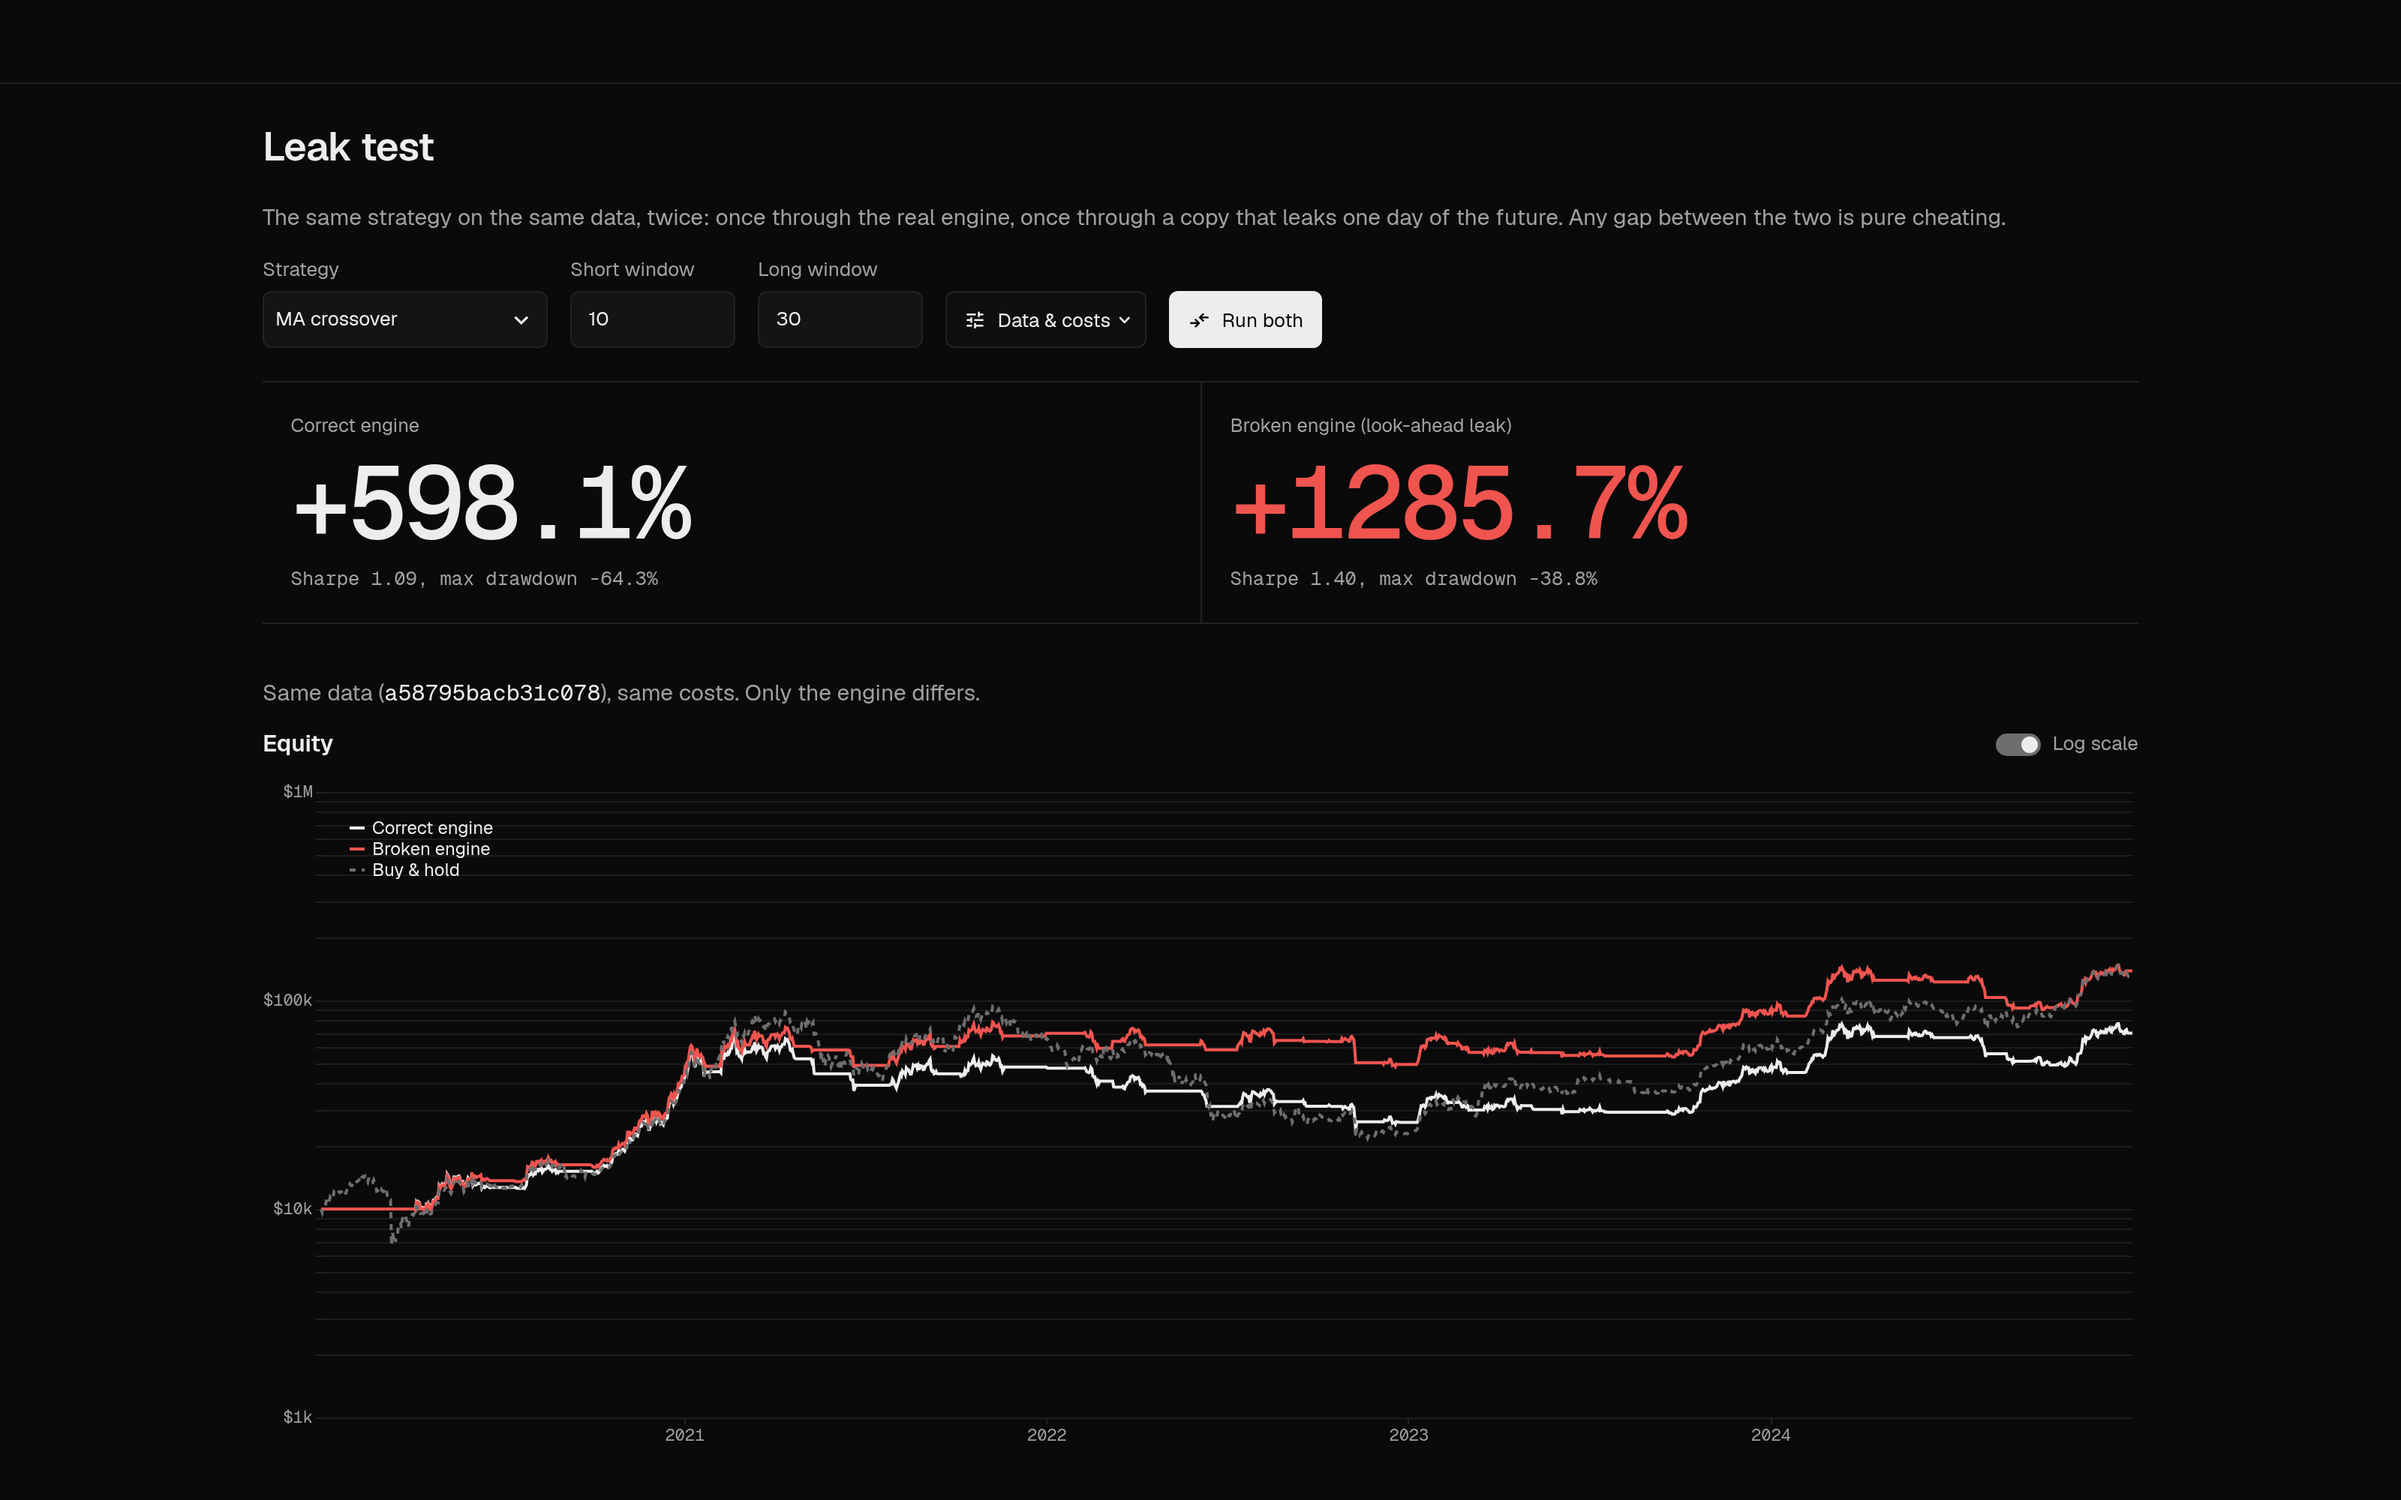
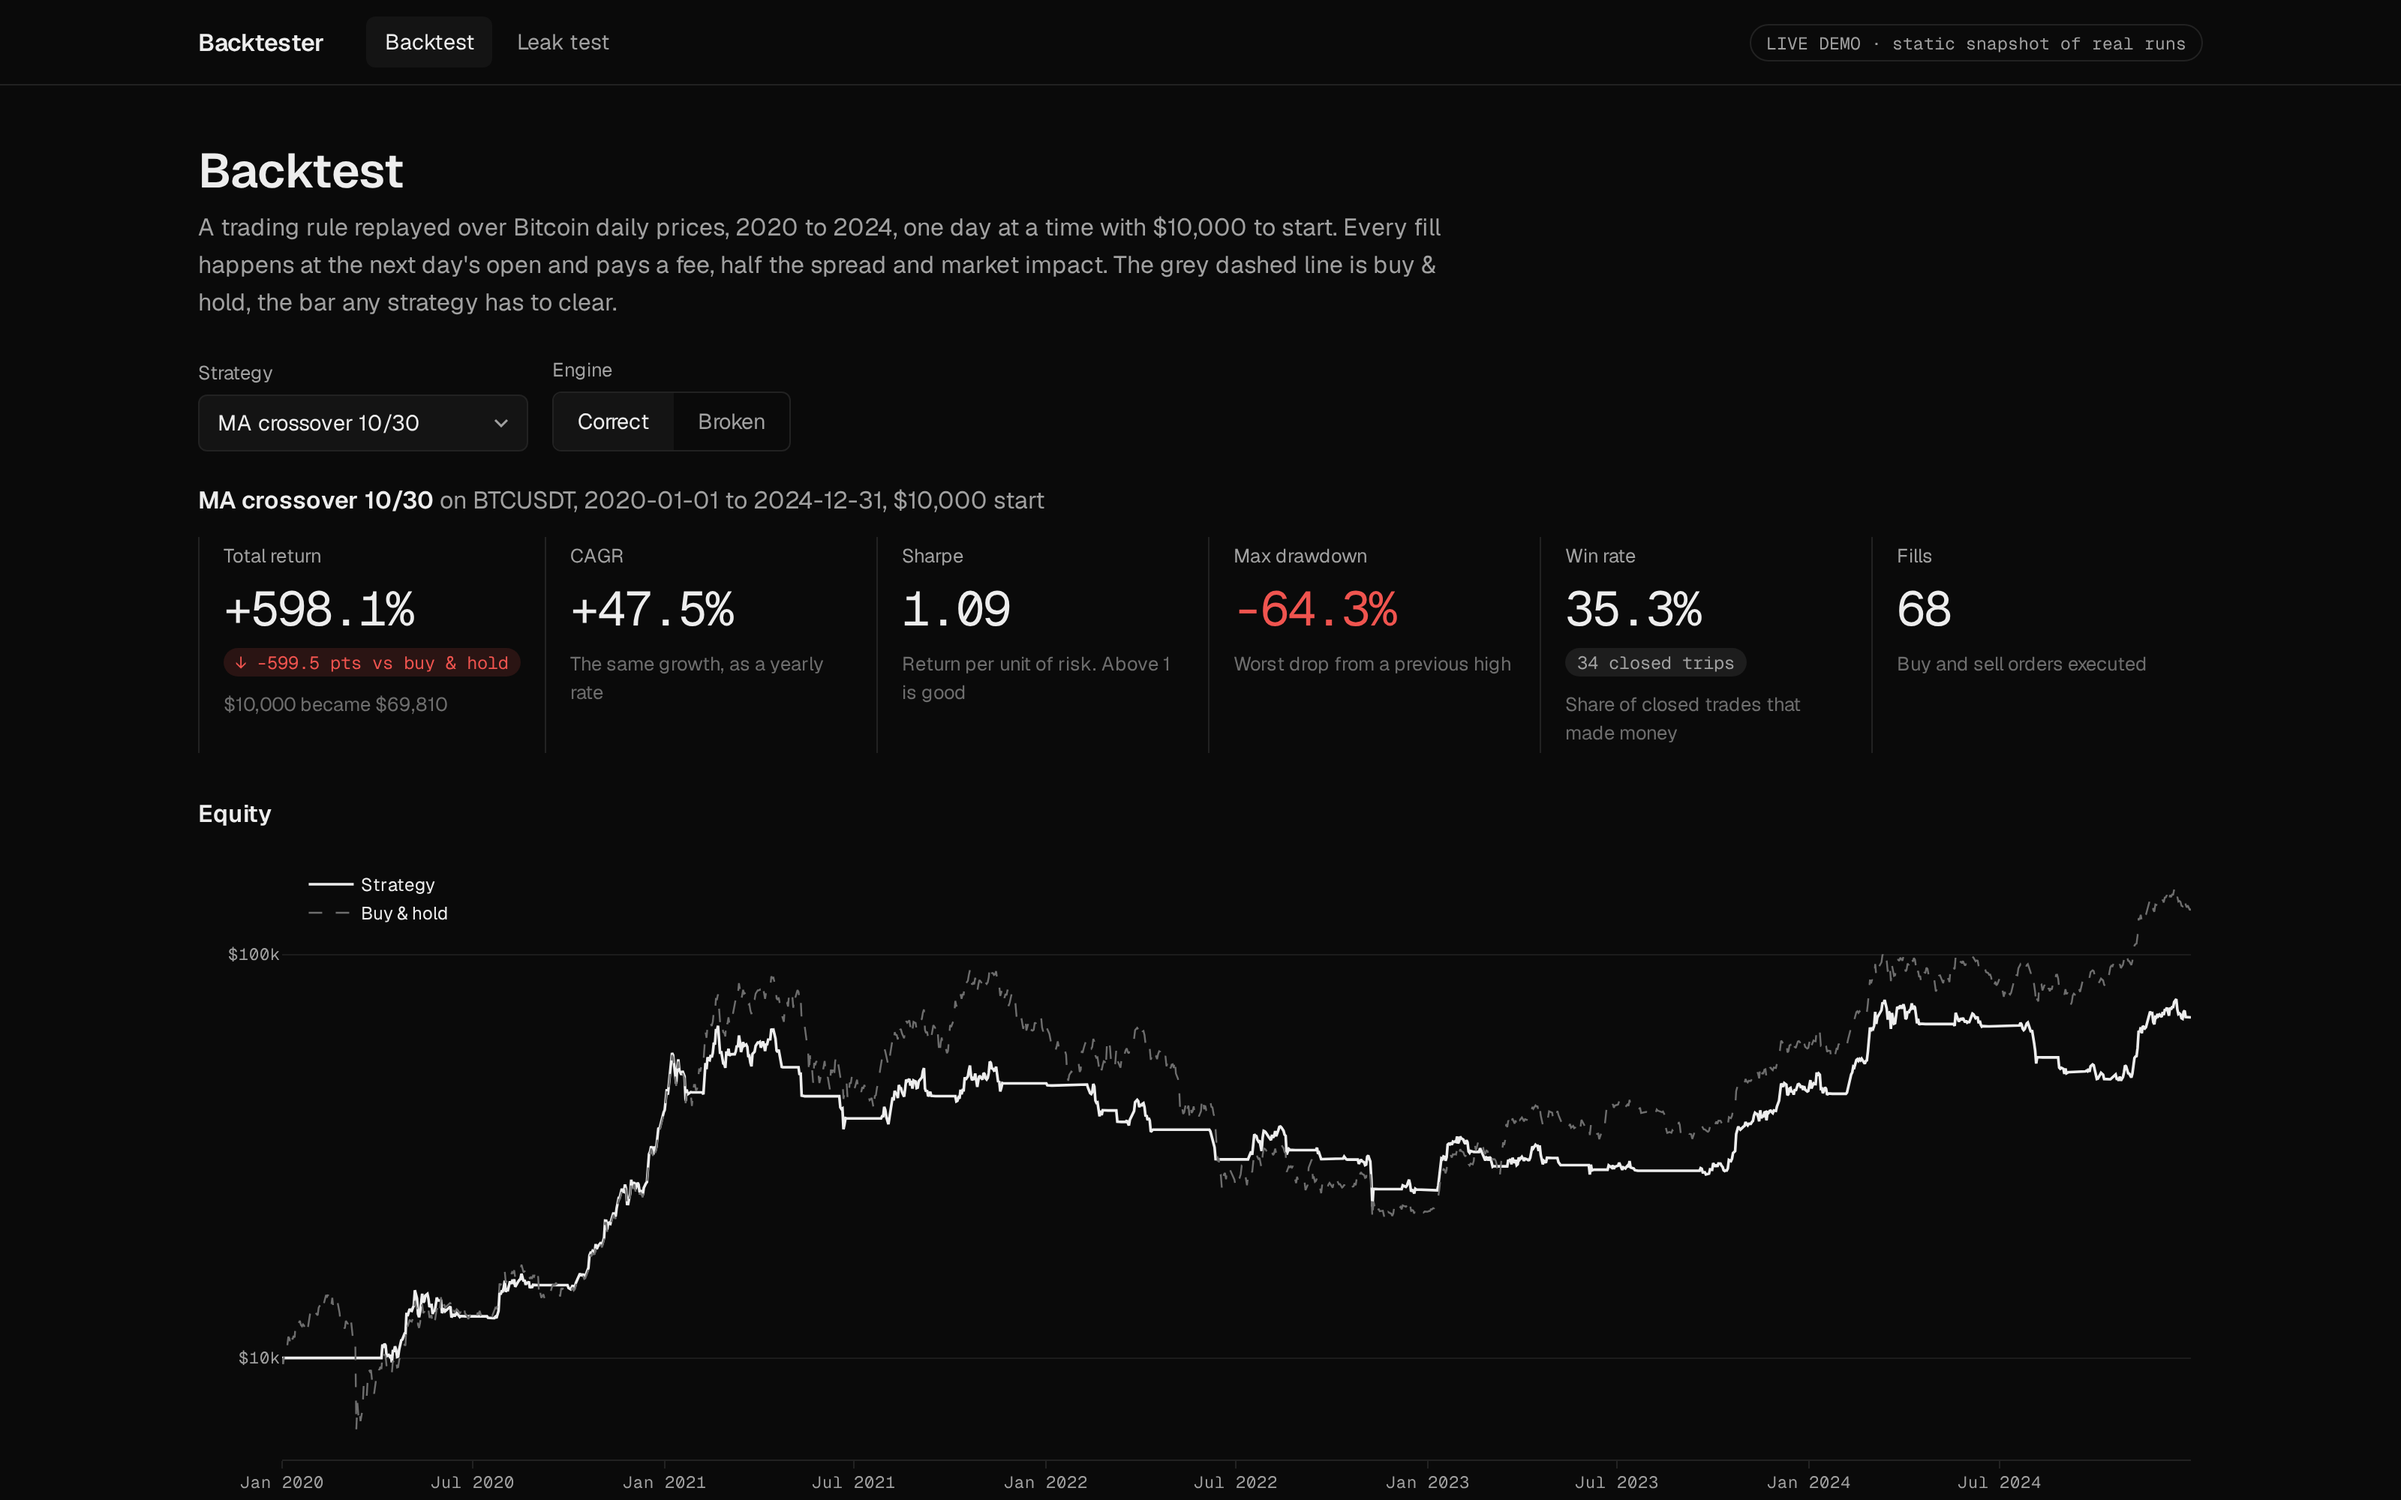
Show the Backtest page in the Backtesting Engine screenshot
Replace the leak test capture with the demo's Backtest page at the same
3200x2000 size, and update the alt text to match.

diff --git a/content/site.ts b/content/site.ts
@@ -48,7 +48,7 @@ export const projects: Project[] = [
     stack: ["Python", "Polars", "Parquet", "MLflow", "Streamlit", "pytest"],
     github: "https://github.com/RindTel/backtesting",
     demo: "/demos/backtesting.html",
-    image: { src: "/projects/backtesting.png", width: 3200, height: 2000, alt: "Backtester leak test: the same MA crossover on the same Bitcoin data returns +598.1% through the correct engine and +1285.7% through the leaky one, with both equity curves overlaid" },
+    image: { src: "/projects/backtesting.png", width: 3200, height: 2000, alt: "Backtester Backtest page: an MA crossover 10/30 on Bitcoin from 2020 to 2024 returns +598.1% with a 1.09 Sharpe and -64.3% max drawdown, its equity curve drawn against buy and hold" },
     pipeline: {
       rows: 1,
       cols: 5,
